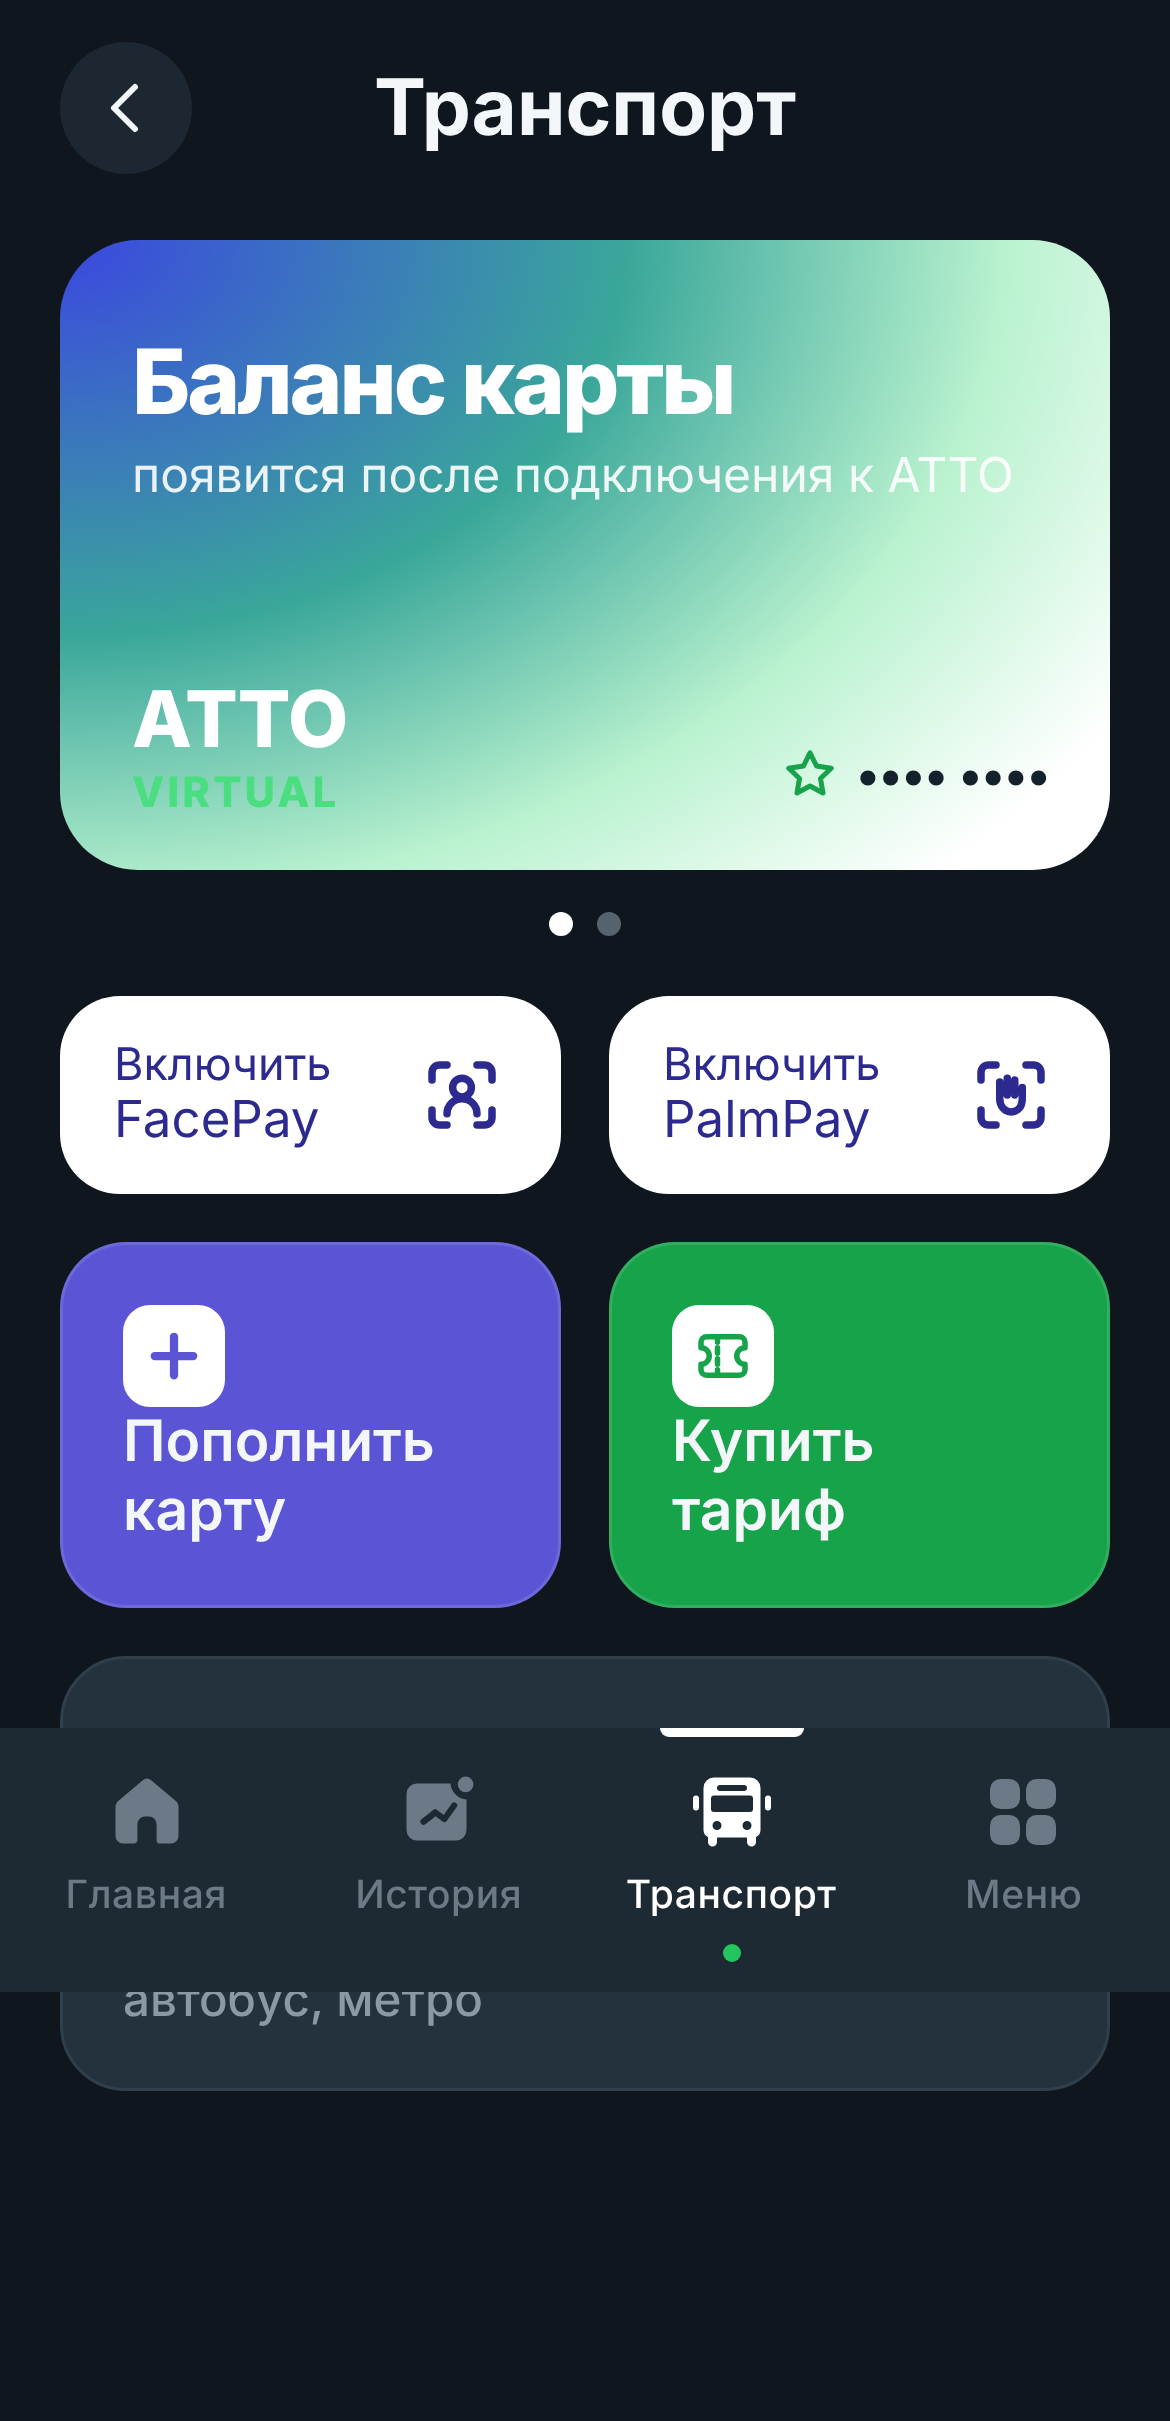
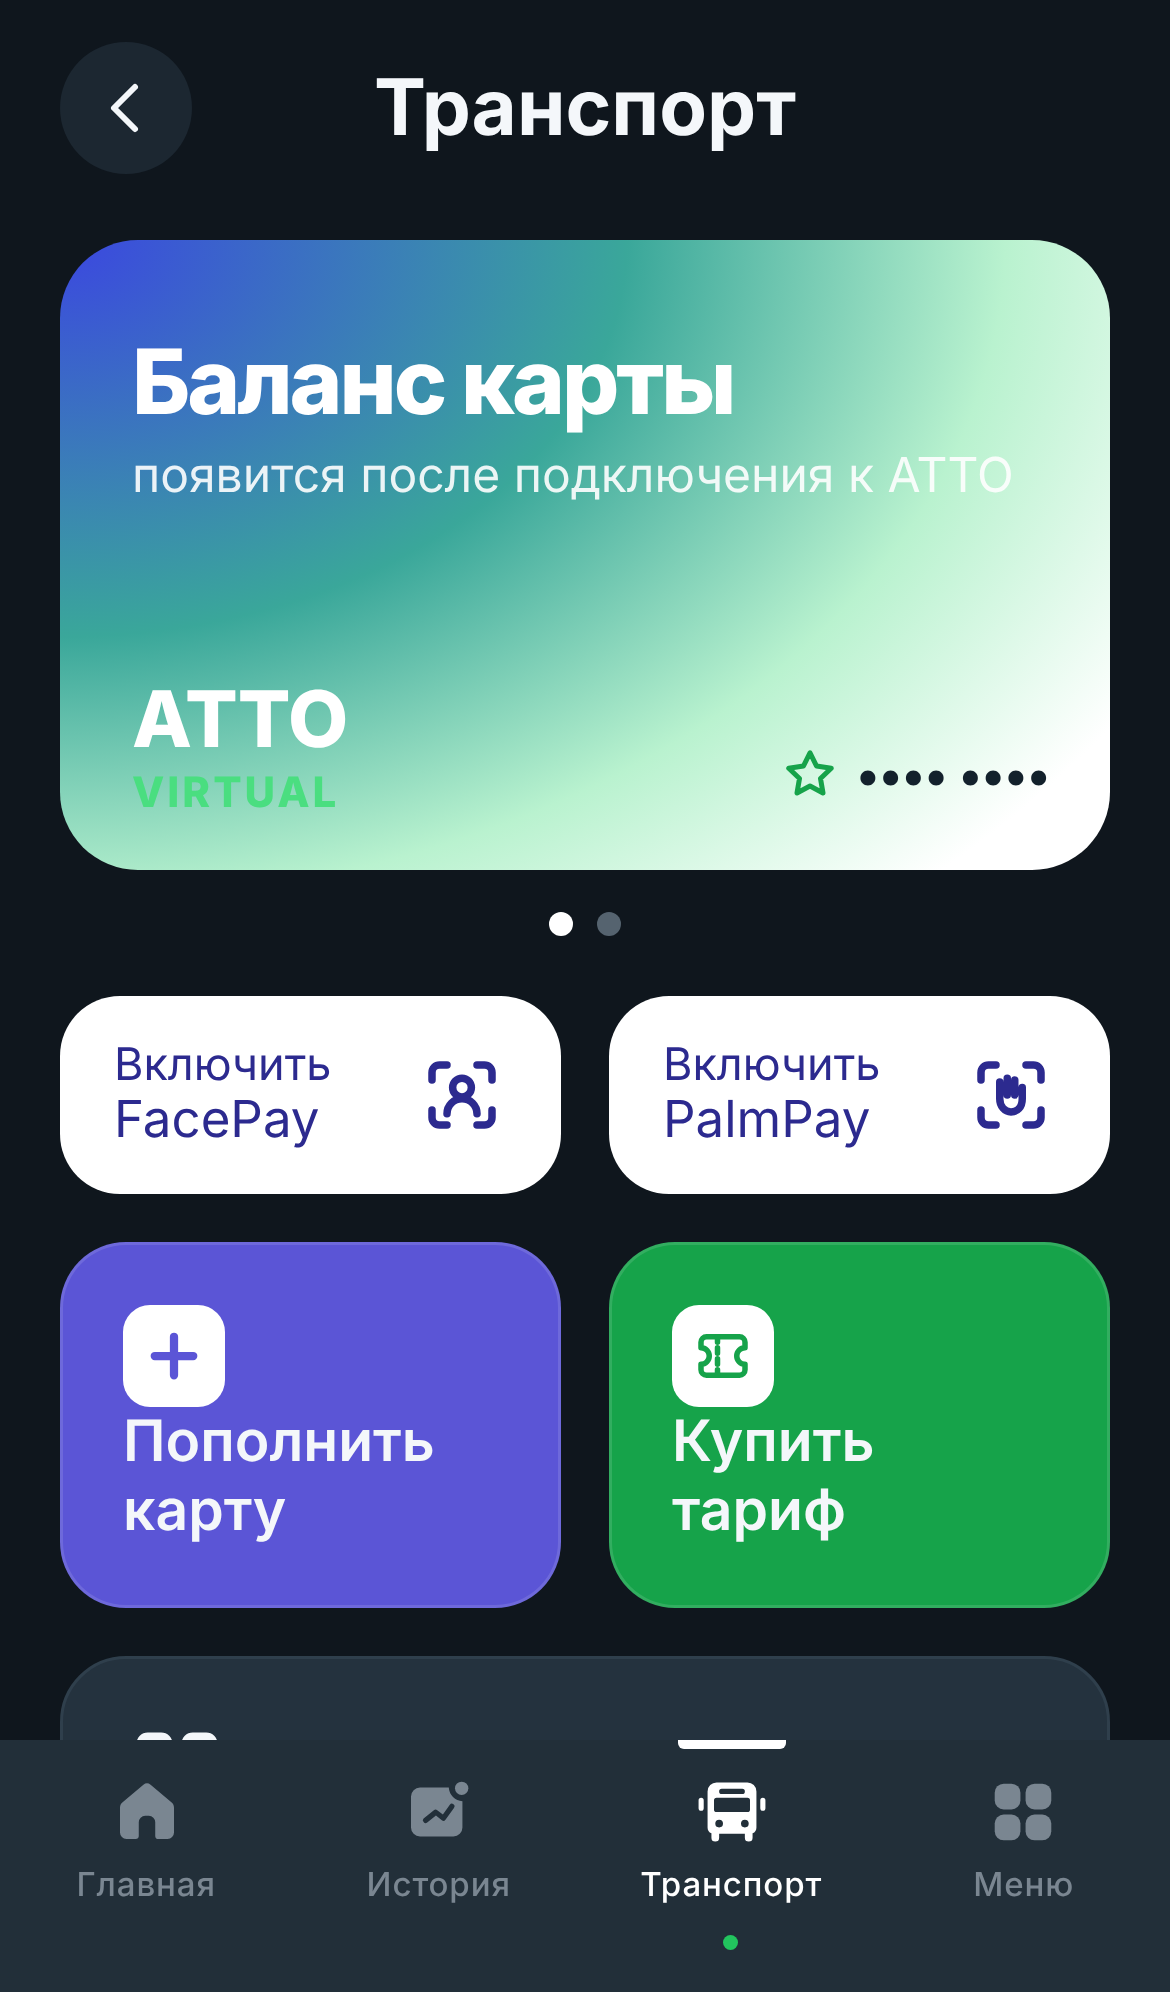
Pastki navigatsiya o'lchamlari originalga moslandi, skrinshotlar yangilandi
Claude-Session: https://claude.ai/code/session_01KVTEyQMYscgZHJL55JKxj1

diff --git a/src/styles.css b/src/styles.css
@@ -23,7 +23,7 @@ input, select, textarea { font: inherit; color: inherit; }
 
 /* ---------- Mobil qobiq ---------- */
 .phone { max-width: 480px; margin: 0 auto; min-height: 100%; position: relative; display: flex; flex-direction: column; background: var(--bg); }
-.screen { flex: 1; padding: 12px 20px 110px; overflow-x: hidden; }
+.screen { flex: 1; padding: 12px 20px 100px; overflow-x: hidden; }
 .screen.no-nav { padding-bottom: 32px; }
 .topbar { display: flex; align-items: center; gap: 14px; padding: 14px 20px 10px; position: sticky; top: 0; background: var(--bg); z-index: 5; }
 .topbar .title { flex: 1; text-align: center; font-size: 26px; font-weight: 700; }
@@ -51,12 +51,13 @@ input, select, textarea { font: inherit; color: inherit; }
 .hscroll::-webkit-scrollbar { display: none; }
 
 /* Pastki navigatsiya */
-.tabbar { position: fixed; bottom: 0; left: 50%; transform: translateX(-50%); width: 100%; max-width: 480px; display: grid; grid-template-columns: repeat(4, 1fr); background: #1e2a33; padding: 14px 0 calc(10px + env(safe-area-inset-bottom)); z-index: 10; }
-.tab { display: flex; flex-direction: column; align-items: center; gap: 6px; color: #6b7a86; font-size: 13px; font-weight: 500; letter-spacing: .2px; position: relative; }
+.tabbar { position: fixed; bottom: 0; left: 50%; transform: translateX(-50%); width: 100%; max-width: 480px; display: grid; grid-template-columns: repeat(4, 1fr); background: #222f39; padding: 12px 0 calc(14px + env(safe-area-inset-bottom)); z-index: 10; }
+.tab { display: flex; flex-direction: column; align-items: center; color: #7a8691; font-size: 11px; font-weight: 500; letter-spacing: .3px; position: relative; }
+.tab svg { width: 24px; height: 24px; margin-bottom: 5px; }
 .tab.on { color: #fff; }
-.tab::before { content: ''; position: absolute; top: -14px; width: 48px; height: 3px; border-radius: 0 0 3px 3px; background: transparent; }
+.tab::before { content: ''; position: absolute; top: -12px; left: 50%; width: 36px; height: 3px; margin-left: -18px; border-radius: 0 0 2px 2px; background: transparent; }
 .tab.on::before { background: #fff; }
-.tab::after { content: ''; width: 6px; height: 6px; border-radius: 50%; margin-top: 2px; background: transparent; }
+.tab::after { content: ''; width: 5px; height: 5px; border-radius: 50%; margin-top: 10px; background: transparent; }
 .tab.on::after { background: var(--accent); }
 
 /* Menyu */
